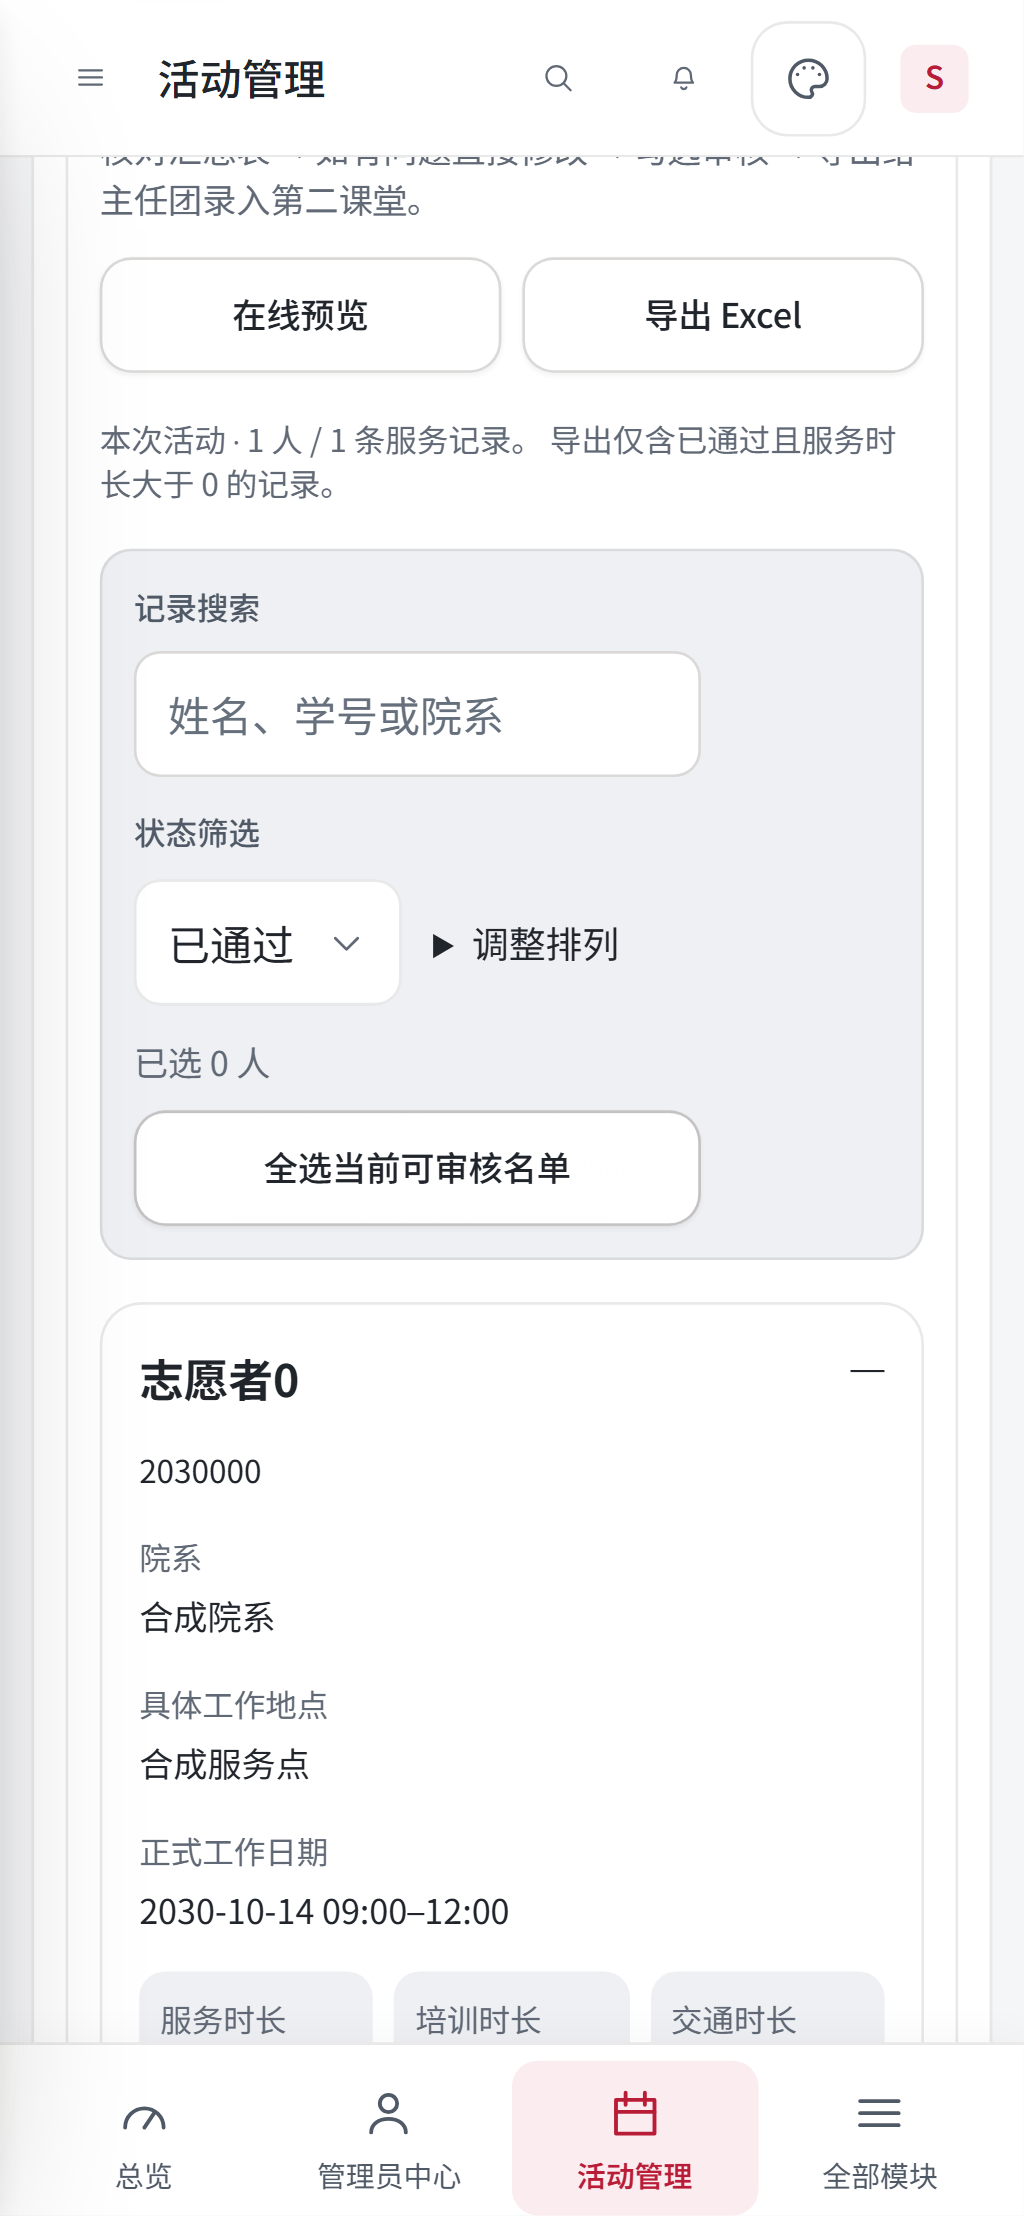
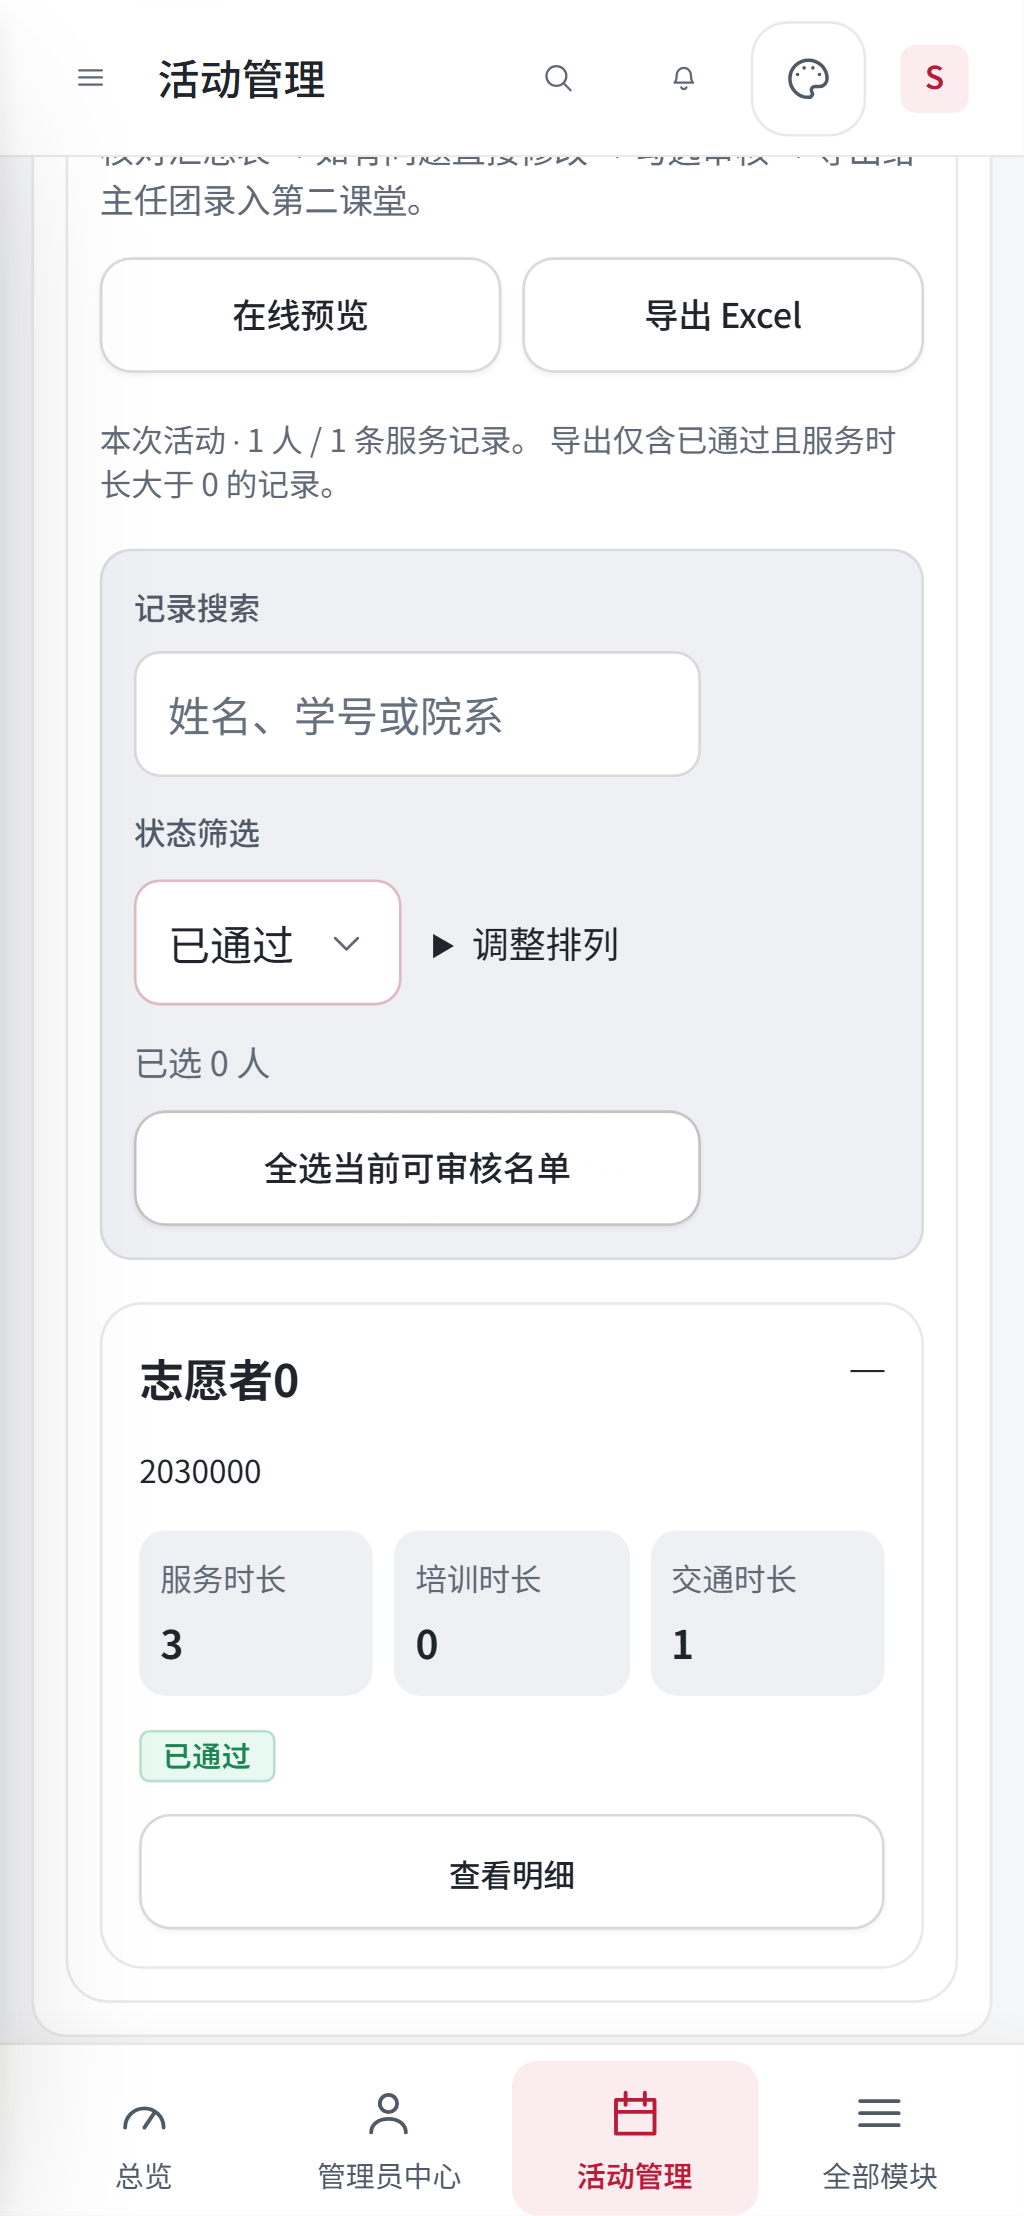
refactor: align mobile service lists with compact activity summaries

diff --git a/public/app/console/pages/activity-service.js b/public/app/console/pages/activity-service.js
@@ -200,7 +200,7 @@ export function serviceWorkspace({ event, events = [event], registrations, ledge
     } });
     submit.disabled = true;
     checked.control.addEventListener('change', () => { submit.disabled = saving || !checked.control.checked; });
-    const body = h('div', { class: 'field-inspector stack-4' }, evidenceBody, enabled ? h('section', { class: 'stack-3' }, h('h3', { text: '实际服务信息' }), form.node, checked, notice('提交进入待复核，不会自动批准时长。', { tone: 'neutral' }), feedback) : definitionList([['服务时长', value.serviceHours], ['培训时长', value.trainingHours], ['交通时长', value.travelHours], ['具体工作地点', value.location], ['正式工作日期', value.dates], ['工作内容', value.work], ['备注', value.remark || '无']]));
+    const body = h('div', { class: 'field-inspector stack-4' }, definitionList([['学号', registration['学号']], ['院系', registration['院系'] || '未填写'], ['红会身份', memberLabel(members.get(registration._id))]]), evidenceBody, enabled ? h('section', { class: 'stack-3' }, h('h3', { text: '实际服务信息' }), form.node, checked, notice('提交进入待复核，不会自动批准时长。', { tone: 'neutral' }), feedback) : definitionList([['服务时长', value.serviceHours], ['培训时长', value.trainingHours], ['交通时长', value.travelHours], ['具体工作地点', value.location], ['正式工作日期', value.dates], ['工作内容', value.work], ['备注', value.remark || '无']]));
     const drawer = openDrawer({ title: `${registration['姓名']} · 签到详情`, width: 880, workspace: true, body,
       beforeClose: async () => !saving && (done || JSON.stringify(form.values()) === initial || await confirmAction({ title: '放弃未提交的服务信息？', description: '已提交记录不受影响。', confirmLabel: '放弃修改' })), footer: enabled ? [submit] : [] });
     drawer.surface.classList.add('field-edit-dialog');

diff --git a/public/styles/admin.css b/public/styles/admin.css
@@ -1914,6 +1914,7 @@ body:has(.form-workspace:not([data-closing])) .toast-root { top:16px; bottom:aut
   .service-table tbody { display:grid; gap:12px; }
   .service-table tr { display:grid; grid-template-columns:repeat(3,minmax(0,1fr)); gap:12px 8px; padding:14px; border:1px solid var(--border); border-radius:16px; background:var(--surface); }
   .service-table.service-table--fit td { position:static; display:block; min-width:0; max-width:none; padding:0; height:auto; border:0; text-align:left; background:transparent; overflow-wrap:anywhere; }
+  .service-table.service-table--fit td:is([data-label="院系"], [data-label="红会身份"], [data-label="签到依据"], [data-label="具体工作地点"], [data-label="正式工作日期"], [data-label="志愿者工作内容"], [data-label="备注"]) { display:none; }
   .service-table td::before { content:attr(data-label); display:block; margin-bottom:4px; color:var(--text-muted); font-size:12px; font-weight:400; }
   .service-table td[data-label="姓名"] { grid-column:1/3; grid-row:1; }
   .service-table td[data-label="姓名"] strong { font-size:17px; }

diff --git a/docs/WORKFLOW.md b/docs/WORKFLOW.md
@@ -58,7 +58,7 @@ flowchart TD
 
 审核与导出是独立操作：审核成功后不自动下载，点击「导出 Excel」下载真实 `.xlsx`，下载失败可再次点击重试。文件只包含已批准/已入账记录，保持姓名、院系、学号、具体工作地点、正式工作日期、培训时长、交通时长、服务时长、志愿者具体工作内容、备注这十列。下载不会向第二课堂提交数据；由主任团按原流程录入。同步个人记录仍为独立操作。
 
-手机宽度（720px 及以下）的签到核验、时长审核和在线预览使用逐人卡片。卡片保留院系、签到依据、日期、地点、工作内容及备注，三类时长并排展示；筛选与批量操作随页面滚动，逐人核验面板中的表单单列排列。桌面继续使用表格，Excel 下载列与审核规则沿用原流程。
+手机宽度（720px 及以下）的签到核验、时长审核和在线预览使用逐人卡片。列表卡片展示姓名、学号、状态、三类时长和主要操作；院系、签到依据、日期、地点、工作内容及备注通过「核验并录入」或「查看明细 / 编辑信息」进入详情核对。筛选与批量操作随页面滚动，详情表单单列排列。在线导出预览保留全部字段。桌面继续使用表格，Excel 下载列与审核规则沿用原流程。
 
 ④录入与⑤待审核明细均可编辑七项服务信息：具体工作地点、正式工作日期、培训/交通/服务时长、工作内容和备注；姓名、院系、学号只读。⑤通过“编辑明细”修改每次服务，保存后重新汇总，不自动批准，也不把合计重复写入每条明细。保留原核对人，另记修订人/时间；已通过的记录不开放直接修改。
 
